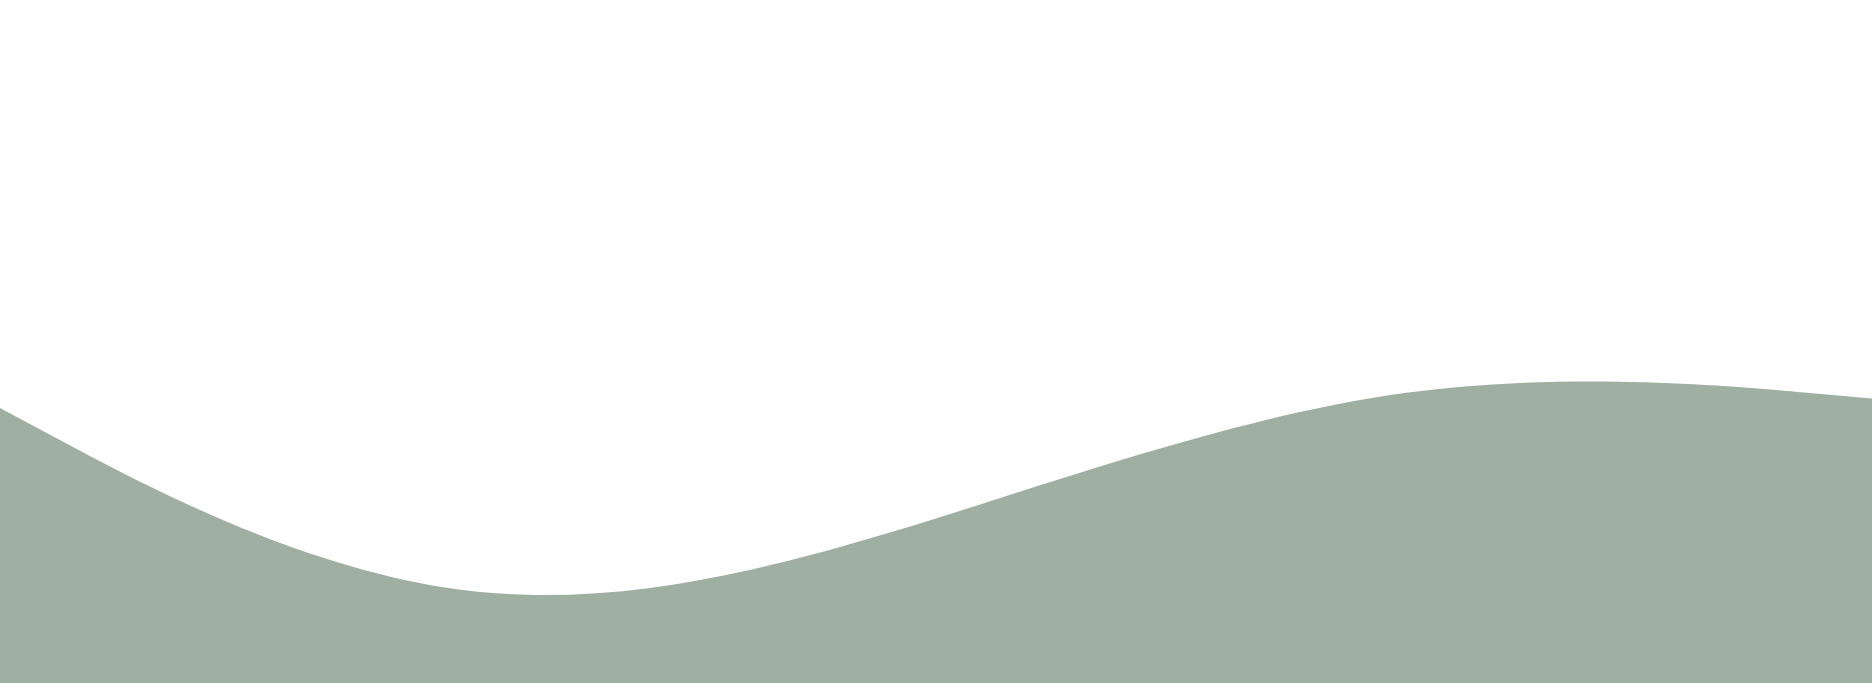
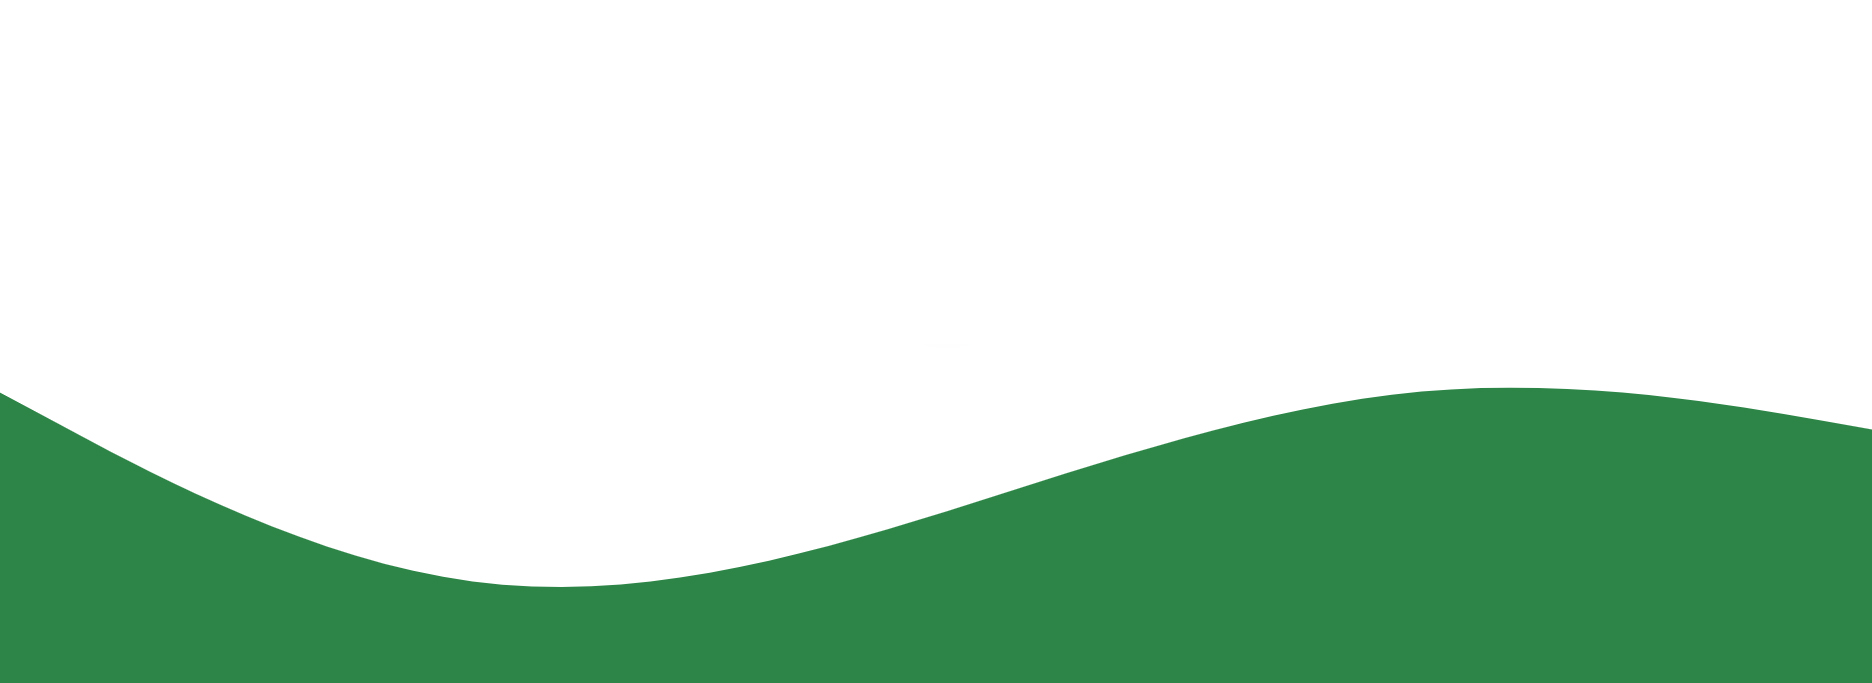
fixing home page

diff --git a/src/styles/index.css b/src/styles/index.css
@@ -796,7 +796,7 @@ body::-webkit-scrollbar {
     z-index: 5;
   }
   .nav-wave {
-    height: 50%;
+    height: 40%;
     -o-object-fit: cover;
        object-fit: cover;
   }
@@ -888,6 +888,7 @@ body::-webkit-scrollbar {
   color: var(--green1);
   -webkit-transition: var(--transition);
   transition: var(--transition);
+  z-index: 2;
 }
 
 .arrow.next {
